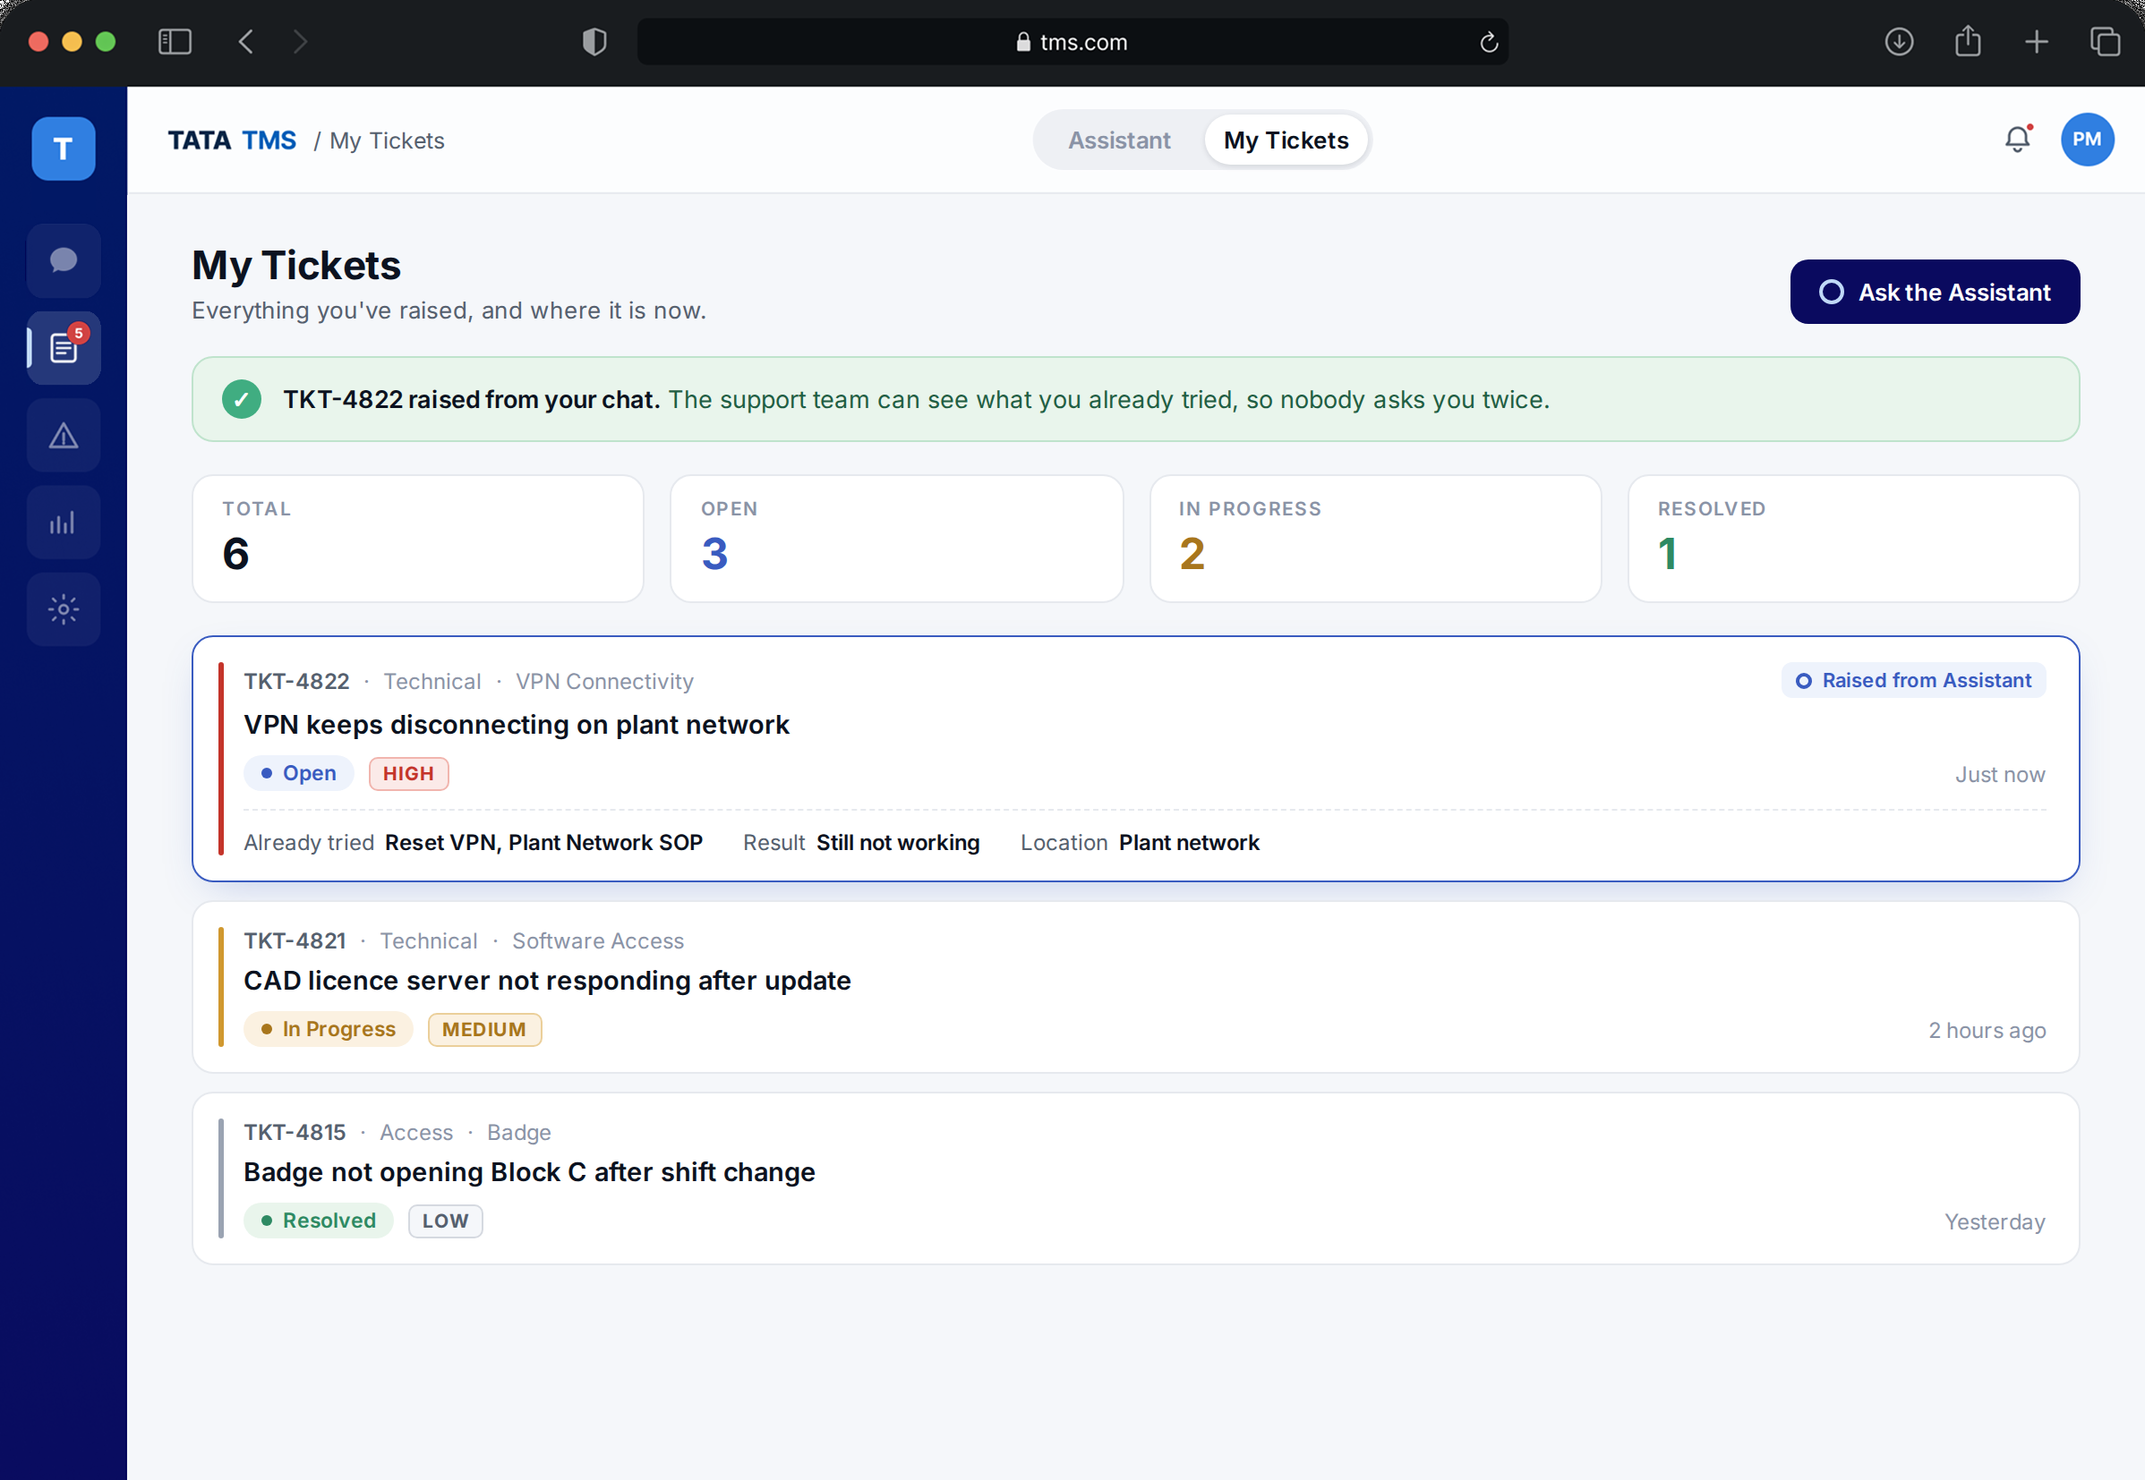
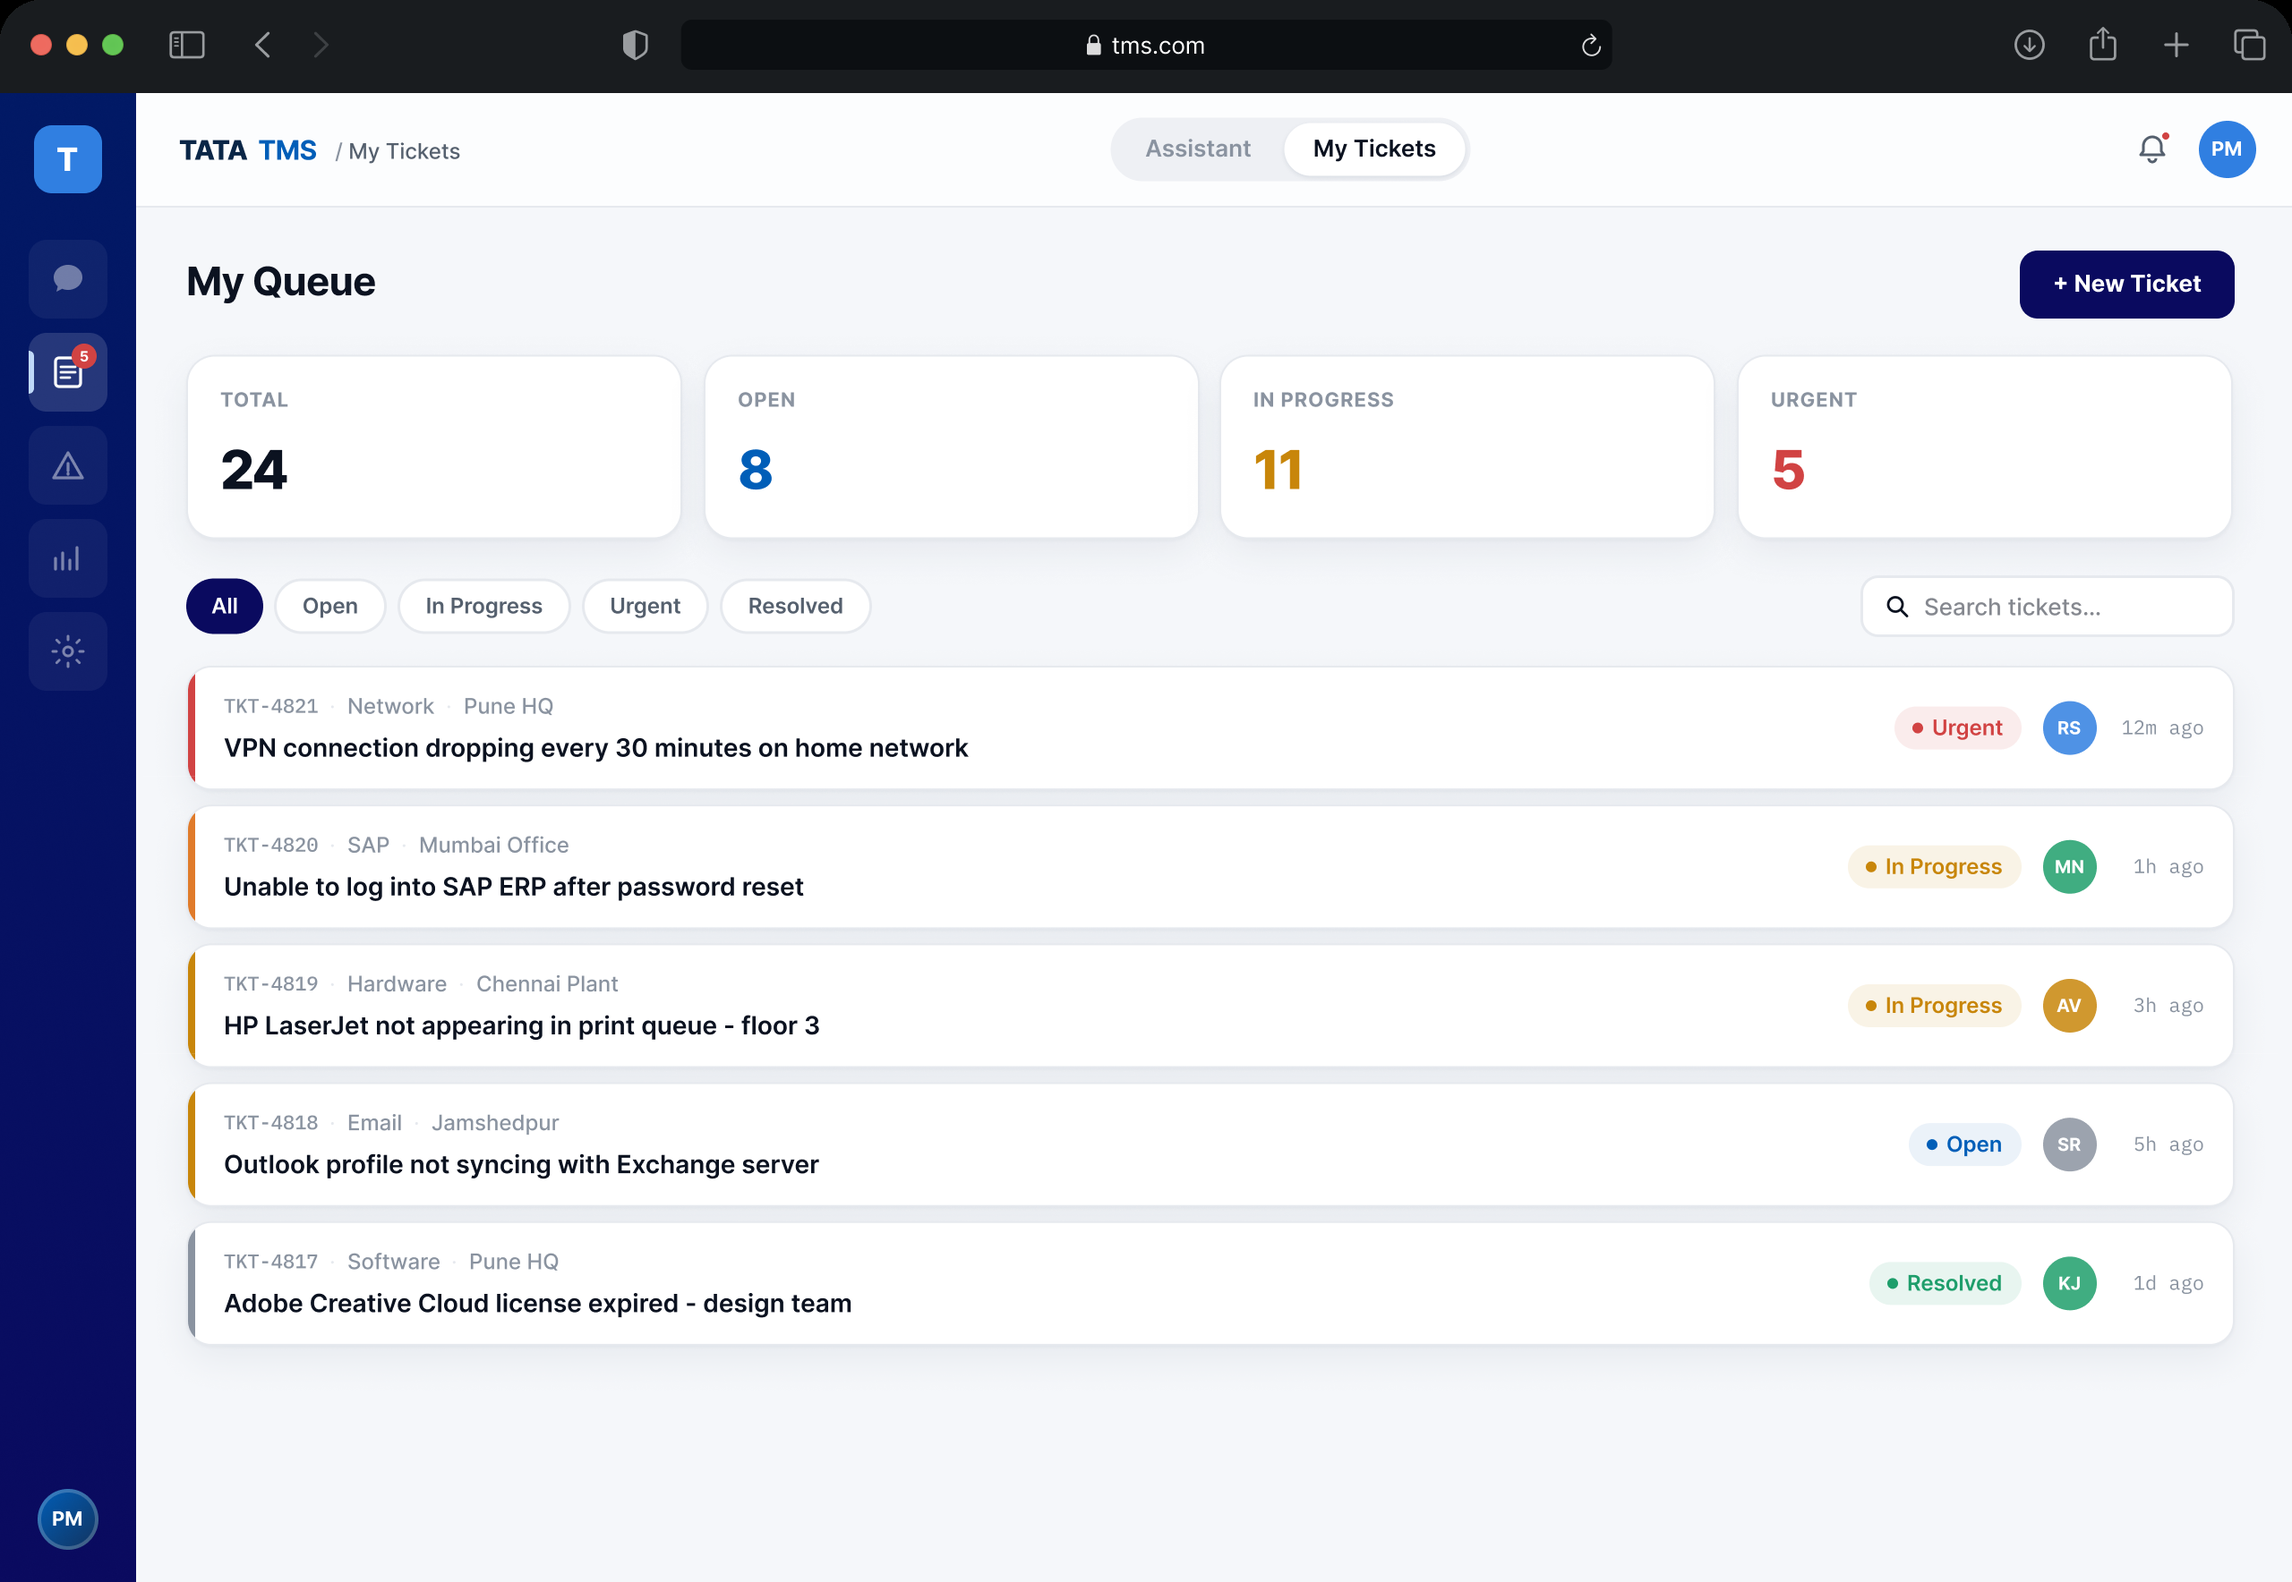
TMS preview: her My Tickets screen, hover notes on the annotated screenshot
Claude-Session: https://claude.ai/code/session_01RbJu4ENjvQVX4t9txAJ5Am

diff --git a/my-work/project-2-v2/index.html b/my-work/project-2-v2/index.html
@@ -701,24 +701,24 @@
 .v2-part::after { content: ""; flex: 1; height: 1px; background: #18191F; opacity: .2; }
 .v2-part span { font-size: 15px; font-weight: 700; letter-spacing: .16em; color: #18191F; }
 .v2-part b { color: #E87B35; font-weight: 700; }
-.v2-findings { list-style: none; margin: 0 0 48px; padding: 0; display: grid; grid-template-columns: repeat(2, 1fr); gap: 16px; }
-.v2-findings li { background: #fff; border: 1px solid #E5E7EB; border-radius: 12px; padding: 20px 22px; font-size: 17px; line-height: 1.45; color: #18191F; }
-.v2-findings b { display: block; margin-bottom: 4px; font-size: 26px; font-weight: 700; color: #E87B35; line-height: 1.1; }
-.tms-notes { grid-template-columns: repeat(5, 1fr); gap: 12px; }
-.tms-notes li { font-size: 16px; padding: 18px; }
-@media (max-width: 1100px) { .tms-notes { grid-template-columns: repeat(2, 1fr); } }
-@media (max-width: 600px) { .tms-notes, .v2-findings { grid-template-columns: 1fr; } }
-.tms-annot { position: relative; margin: 0; border-radius: 6px; overflow: hidden; box-shadow: 0 1px 0 #E5E7EB, 0 20px 50px -24px rgba(24,25,31,.25); }
-.tms-annot img { display: block; width: 100%; height: auto; }
-.tms-dot { position: absolute; width: 30px; height: 30px; margin: -15px 0 0 -15px; border-radius: 50%; background: #E87B35; color: #fff; font-size: 15px; font-weight: 700; display: grid; place-items: center; box-shadow: 0 0 0 4px rgba(255,255,255,.9), 0 4px 12px rgba(24,25,31,.25); }
-.cs-reveal-on .tms-annot.is-in .tms-dot { animation: tms-pop .5s cubic-bezier(.22,1.6,.36,1) both; }
-.cs-reveal-on .tms-annot.is-in .tms-dot:nth-of-type(2) { animation-delay: .15s; }
-.cs-reveal-on .tms-annot.is-in .tms-dot:nth-of-type(3) { animation-delay: .3s; }
-.cs-reveal-on .tms-annot.is-in .tms-dot:nth-of-type(4) { animation-delay: .45s; }
-.cs-reveal-on .tms-annot.is-in .tms-dot:nth-of-type(5) { animation-delay: .6s; }
-.cs-reveal-on .tms-annot.is-in .tms-dot:nth-of-type(6) { animation-delay: .75s; }
-@keyframes tms-pop { from { transform: scale(0); } to { transform: none; } }
-@media (max-width: 700px) { .tms-dot { width: 20px; height: 20px; margin: -10px 0 0 -10px; font-size: 11px; box-shadow: 0 0 0 2px rgba(255,255,255,.9); } }
+.tms-annot { position: relative; margin: 0; }
+.tms-annot img { display: block; width: 100%; height: auto; border-radius: 6px; box-shadow: 0 1px 0 #E5E7EB, 0 20px 50px -24px rgba(24,25,31,.25); }
+.tms-dot { position: absolute; width: 32px; height: 32px; margin: -16px 0 0 -16px; padding: 0; border: 0; border-radius: 50%; background: #E87B35; color: #fff; font: inherit; font-size: 15px; font-weight: 700; cursor: pointer; box-shadow: 0 0 0 4px rgba(255,255,255,.9), 0 4px 12px rgba(24,25,31,.25); z-index: 2; }
+.tms-num { display: grid; place-items: center; width: 100%; height: 100%; border-radius: 50%; }
+.tms-dot::before { content: ""; position: absolute; inset: 0; border-radius: 50%; background: #E87B35; opacity: .45; animation: tms-ping 2.4s ease-out infinite; z-index: -1; }
+.tms-dot:hover, .tms-dot:focus-visible, .tms-dot.is-open { z-index: 5; background: #18191F; outline: none; }
+.tms-dot:hover::before, .tms-dot:focus-visible::before, .tms-dot.is-open::before { animation: none; opacity: 0; }
+@keyframes tms-ping { 0% { transform: scale(1); opacity: .45; } 70%, 100% { transform: scale(2); opacity: 0; } }
+.tms-tip { position: absolute; left: 50%; bottom: calc(100% + 14px); width: 260px; padding: 14px 16px; background: #18191F; color: #E9EAED; border-radius: 12px; font-size: 15px; font-weight: 400; line-height: 1.45; text-align: left; box-shadow: 0 16px 40px -12px rgba(24,25,31,.5); opacity: 0; visibility: hidden; transform: translate(-50%, 6px); transition: opacity .2s ease, transform .2s ease, visibility .2s; pointer-events: none; }
+.tms-tip b { display: block; margin-bottom: 4px; font-size: 16px; font-weight: 700; color: #FF8F71; }
+.tms-dot:hover .tms-tip, .tms-dot:focus-visible .tms-tip, .tms-dot.is-open .tms-tip { opacity: 1; visibility: visible; transform: translate(-50%, 0); }
+.tms-dot.tip-down .tms-tip { bottom: auto; top: calc(100% + 14px); }
+.tms-dot.tip-left .tms-tip { left: -6px; transform: translate(0, 6px); }
+.tms-dot.tip-left:hover .tms-tip, .tms-dot.tip-left:focus-visible .tms-tip, .tms-dot.tip-left.is-open .tms-tip { transform: none; }
+.tms-dot.tip-right .tms-tip { left: auto; right: -6px; transform: translate(0, 6px); }
+.tms-dot.tip-right:hover .tms-tip, .tms-dot.tip-right:focus-visible .tms-tip, .tms-dot.tip-right.is-open .tms-tip { transform: none; }
+@media (max-width: 700px) { .tms-dot { width: 22px; height: 22px; margin: -11px 0 0 -11px; font-size: 12px; box-shadow: 0 0 0 2px rgba(255,255,255,.9); } .tms-tip { width: 200px; font-size: 14px; padding: 12px 14px; } .tms-tip b { font-size: 15px; } }
+@media (prefers-reduced-motion: reduce) { .tms-dot::before { animation: none; } }
 .tms-note { margin: 0; font-size: 15px; line-height: 1.5; color: #6C727F; max-width: 640px; }
 .v2-logic + .tms-note { margin-top: 20px; }
 </style>
@@ -790,21 +790,13 @@
 
             <figure class="tms-annot" data-reveal>
               <img src="../../assets/images/project-2/02-current-tms-screenshot.webp" alt="The current TMS user page. A row of nine blue navigation links, the DPDS TMS title and Tata Motors logo shown twice, a form asking for a login ID and type, and a summary table where status is shown only by red, yellow and green cells." loading="lazy">
-              <span class="tms-dot" style="left:53%; top:3.4%;">1</span>
-              <span class="tms-dot" style="left:12.6%; top:43.6%;">2</span>
-              <span class="tms-dot" style="left:40.6%; top:21.8%;">3</span>
-              <span class="tms-dot" style="left:76.8%; top:70%;">4</span>
-              <span class="tms-dot" style="left:46.2%; top:3.4%;">5</span>
+              <button type="button" class="tms-dot tip-down" style="left:53%; top:3.4%;" aria-label="Finding 1, Nine links, one weight"><span class="tms-num">1</span><span class="tms-tip" role="tooltip"><b>Nine links, one weight</b>All in one row, the same size and colour. Nothing says where to start.</span></button>
+              <button type="button" class="tms-dot tip-left" style="left:12.6%; top:43.6%;" aria-label="Finding 2, Said twice"><span class="tms-num">2</span><span class="tms-tip" role="tooltip"><b>Said twice</b>The title and logo appear twice on one page, so nothing feels like the top.</span></button>
+              <button type="button" class="tms-dot " style="left:40.6%; top:21.8%;" aria-label="Finding 3, A form before anything"><span class="tms-num">3</span><span class="tms-tip" role="tooltip"><b>A form before anything</b>You fill in your ID and a type before you see a single ticket.</span></button>
+              <button type="button" class="tms-dot tip-right" style="left:76.8%; top:70%;" aria-label="Finding 4, Colour does all the talking"><span class="tms-num">4</span><span class="tms-tip" role="tooltip"><b>Colour does all the talking</b>Status is red, yellow or green, and nothing else. Hard to read if you can't tell them apart.</span></button>
+              <button type="button" class="tms-dot tip-down" style="left:46.2%; top:3.4%;" aria-label="Finding 5, Nothing tries to help first"><span class="tms-num">5</span><span class="tms-tip" role="tooltip"><b>Nothing tries to help first</b>Help is one more link in the row. The only way forward is raising a ticket.</span></button>
             </figure>
-            <p class="cs-img-caption cs-mb-32">The current TMS user page, marked up while I used it.</p>
-
-            <ul class="v2-findings tms-notes">
-              <li data-reveal><b>01</b>Nine links in one row, all the same size and colour. Nothing says where to start.</li>
-              <li data-reveal><b>02</b>The title and logo appear twice on one page, so nothing feels like the top.</li>
-              <li data-reveal><b>03</b>You fill in your ID and a type before you see a single ticket.</li>
-              <li data-reveal><b>04</b>Status is red, yellow or green, and nothing else. Colour does all the talking.</li>
-              <li data-reveal><b>05</b>Help is one more link in the row. Nothing tries to answer before you raise a ticket.</li>
-            </ul>
+            <p class="cs-img-caption cs-mb-48">The current TMS user page. Hover or tap a number to see what I found.</p>
 
             <div class="cs-callout" data-reveal><p>The screens were messy, but that wasn't the real problem. A hardware fault and a forgotten password went through the same four field form.</p></div>
             <p class="tms-note">I also audited the full navigation and information architecture. The structure itself stays under Tata Motors' NDA.</p>
@@ -947,7 +939,7 @@
                 <div class="cs-pin-screen">
                   <img class="cs-pin-img is-active" src="../../assets/images/project-2/06-chatfirst.webp" alt="First load: a greeting, Hi Priya, how can I help, one input and four suggested starting points">
                   <img class="cs-pin-img" src="../../assets/images/project-2/07-chatsecond-describing.webp" loading="lazy" alt="Priya types that her VPN keeps disconnecting on the plant network. The assistant suggests a reset guide with That fixed it and Still not working buttons, then offers a pre filled ticket">
-                  <img class="cs-pin-img" src="../../assets/images/project-2/08-chatsecond-lands.webp" loading="lazy" alt="My Tickets: a confirmation that TKT-4822 was raised from chat, and the new ticket at the top of the list showing what Priya already tried">
+                  <img class="cs-pin-img" src="../../assets/images/project-2/08-chatsecond-lands.webp" loading="lazy" alt="My Tickets: the queue with Priya's VPN ticket, TKT-4821, at the top, marked urgent, with its category and location already set">
                 </div>
                 <div class="cs-pin-info">
                   <div class="cs-pin-caps">
@@ -963,7 +955,7 @@
                     </div>
                     <div class="cs-pin-cap">
                       <p class="cs-pin-name"><span>03</span>Where it lands</p>
-                      <p class="cs-pin-desc">The ticket arrives already filled in, with what she tried and what happened.</p>
+                      <p class="cs-pin-desc">Her ticket lands at the top of the queue, with its category, location and urgency already set.</p>
                       <p class="cs-pin-why">Why? Support staff still get the detail they need. It comes from the chat, not from Priya filling in fields.</p>
                     </div>
                   </div>
@@ -1569,6 +1561,21 @@
           </section>
 
         </article>
+        <script>
+          /* Annotated screenshot: tap a number to open its note on touch screens, tap elsewhere to close. */
+          (function () {
+            var dots = document.querySelectorAll('.tms-dot');
+            dots.forEach(function (d) {
+              d.addEventListener('click', function (e) {
+                e.stopPropagation();
+                var open = d.classList.contains('is-open');
+                dots.forEach(function (x) { x.classList.remove('is-open'); });
+                if (!open) d.classList.add('is-open');
+              });
+            });
+            document.addEventListener('click', function () { dots.forEach(function (x) { x.classList.remove('is-open'); }); });
+          })();
+        </script>
         <script>
           /* Pinned screens: the panel is held with position:fixed while you scroll through the section,
              and each third of the scroll shows the next screen. */
